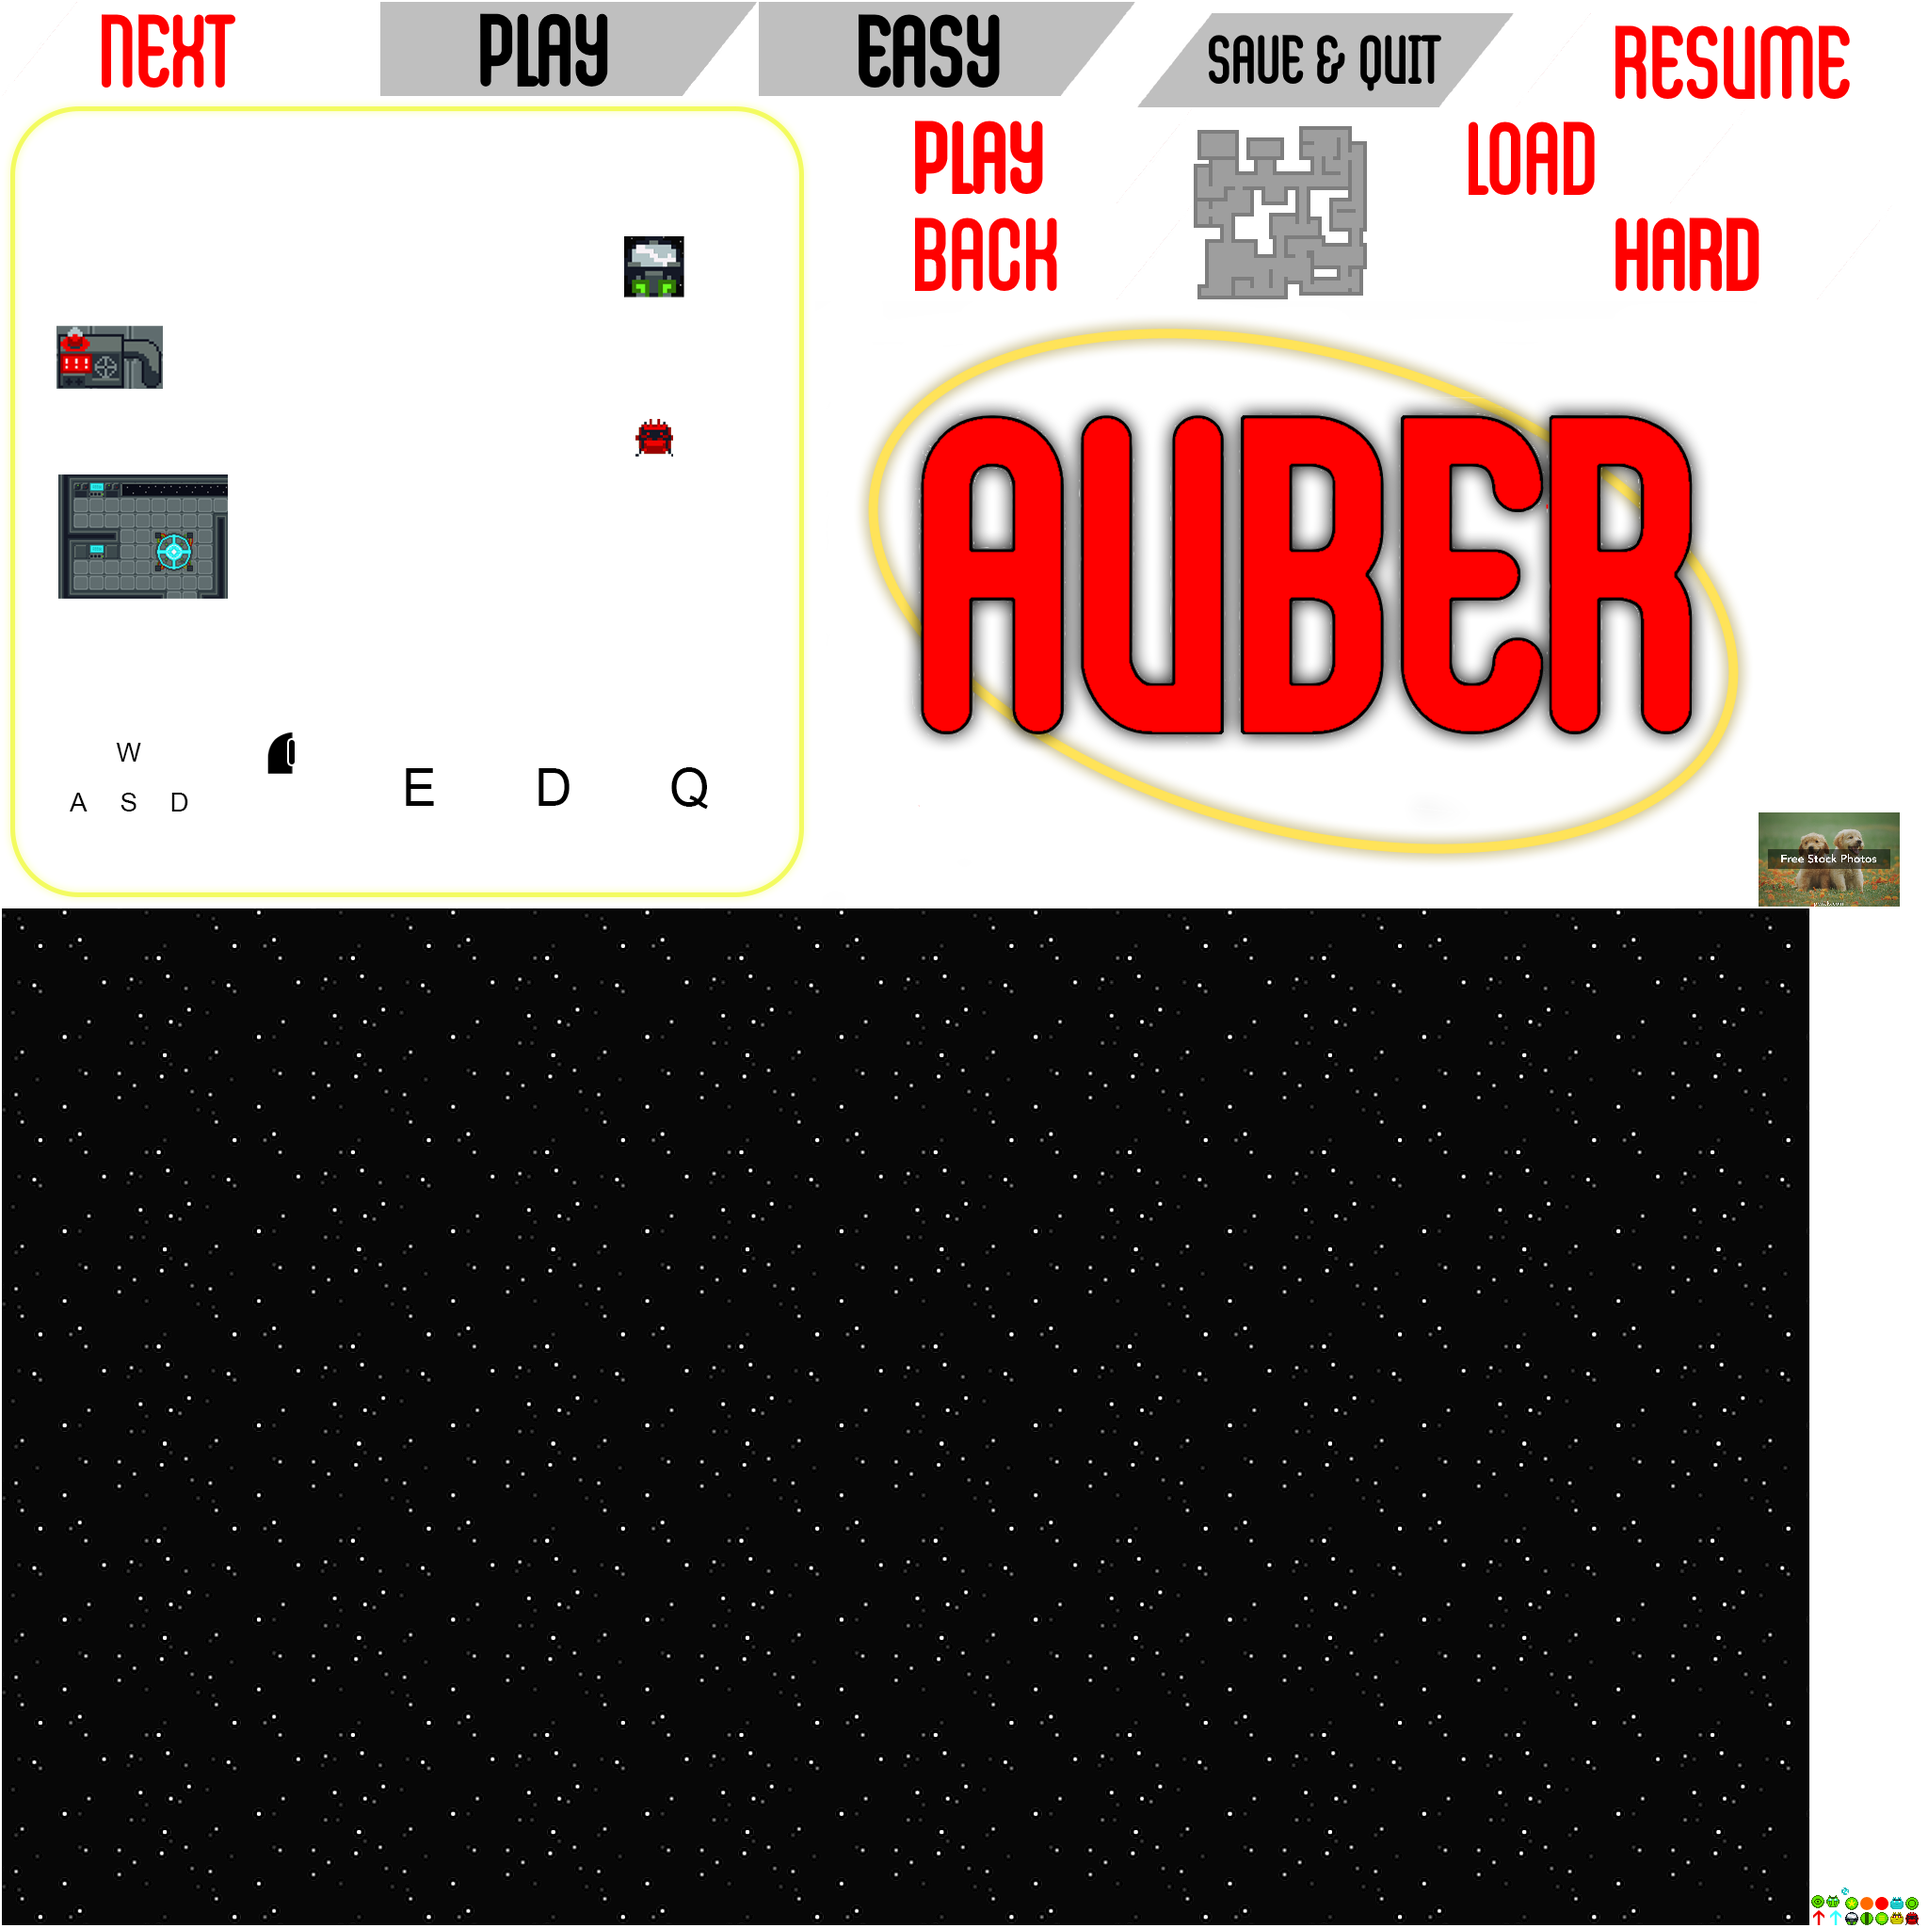
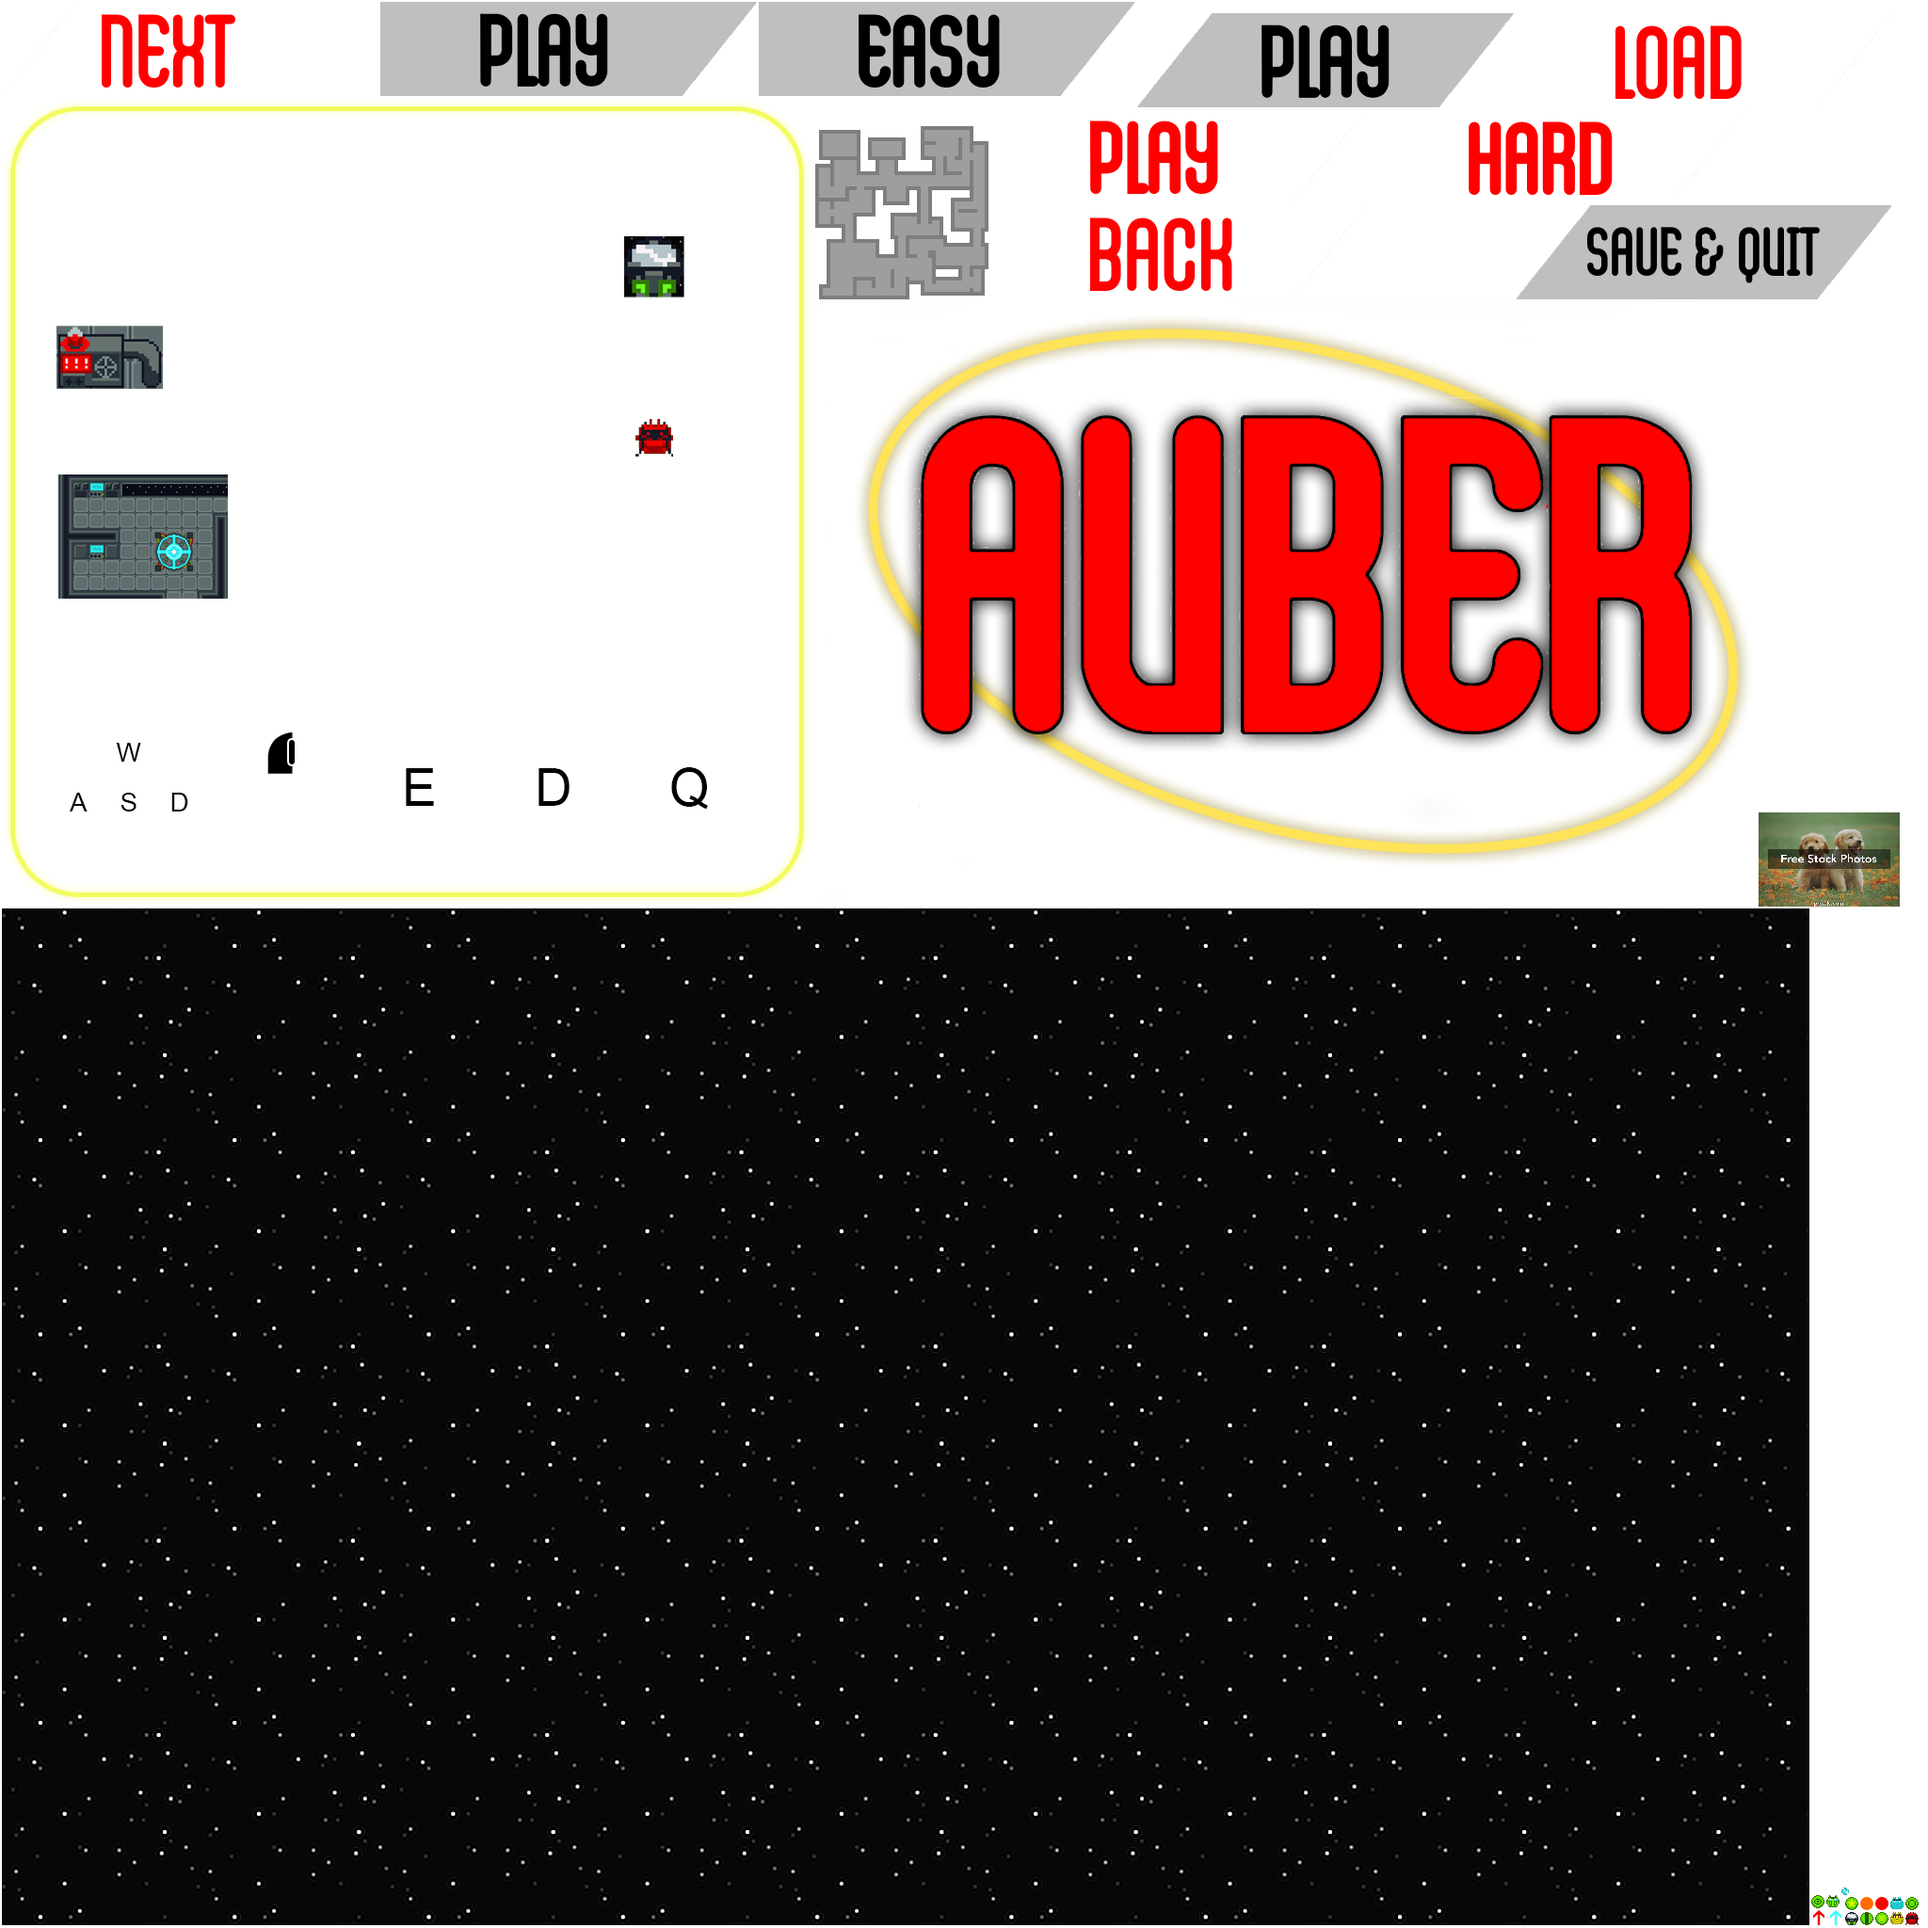
Added guides

Changed region(s): [[0.4062, 0.0, 0.75, 0.1562], [0.75, 0.0625, 1.0, 0.1562], [0.8438, 0.0, 0.9688, 0.0625]]

diff --git a/core/src/com/threecubed/auber/ui/MenuUI.java b/core/src/com/threecubed/auber/ui/MenuUI.java
@@ -32,10 +32,17 @@ public class MenuUI {
   Button easyDiffButton;
   Button hardDiffButton;
   Button loadButton;
+  Button nextButton;
+  Button lastButton;
+  Button startButton;
   OrthogonalTiledMapRenderer renderer;
-  Sprite instructions;
+  Sprite instructions_first;
+  Sprite instructions_second;
   Sprite title;
   SpriteBatch spriteBatch;
+
+  // Main menu screen counter (main, guide 1, guide 2)
+  int subScreen = 0;
 
   /**
    * Instantiate the screen with the {@link AuberGame} object. Set the title and button up to be
@@ -48,10 +55,17 @@ public class MenuUI {
 
     spriteBatch = new SpriteBatch();
 
-    instructions = game.atlas.createSprite("instructions");
+    instructions_first = game.atlas.createSprite("guide1");
+    instructions_first.setScale(1f);
+    instructions_first.setPosition(Gdx.graphics.getWidth() / 2 - instructions_first.getWidth() / 2,
+            Gdx.graphics.getHeight() / 2 - instructions_first.getHeight() / 2 + 50f);
+    instructions_second = game.atlas.createSprite("guide2");
+    instructions_second.setScale(1f);
+    instructions_second.setPosition(Gdx.graphics.getWidth() / 2 - instructions_second.getWidth() / 2,
+            Gdx.graphics.getHeight() / 2 - instructions_second.getHeight() / 2 + 50f);
     title = game.atlas.createSprite("auber_logo");
 
-    Runnable onPlayClick = new Runnable() {
+    Runnable onStartClick = new Runnable() {
       @Override
       public void run() {
         game.setScreen(new GameScreen(game, MenuScreen.difficulty));
@@ -59,9 +73,9 @@ public class MenuUI {
     };
 
     // Button sprites are now drawn from the bottom left rather than center
-    playButton = new Button(
-        new Vector2(0f, Gdx.graphics.getHeight() / 4),
-        1f, game.atlas.createSprite("playButton"), game.atlas.createSprite("playButtonPressed"), game, onPlayClick);
+    startButton = new Button(
+        new Vector2(Gdx.graphics.getWidth() / 2 - 200f, Gdx.graphics.getHeight() / 4 - 175f),
+        1f, game.atlas.createSprite("startButton"), game.atlas.createSprite("startButtonPressed"), game, onStartClick);
 
     Runnable onDiffClick = new Runnable() {
       @Override
@@ -90,25 +104,74 @@ public class MenuUI {
     loadButton = new Button(
             new Vector2(0f, Gdx.graphics.getHeight() / 4 - 125f),
             1f, game.atlas.createSprite("loadButton"), game.atlas.createSprite("loadButtonPressed"), game, onLoadClick);
+
+    Runnable onNextClick = new Runnable() {
+      @Override
+      public void run() {
+        nextScreen();
+      }
+    };
+
+    nextButton = new Button(
+            new Vector2(Gdx.graphics.getWidth() - 400f, Gdx.graphics.getHeight() / 4 - 175f),
+            1f, game.atlas.createSprite("nextButton"), game.atlas.createSprite("nextButtonPressed"), game, onNextClick);
+
+    playButton = new Button(
+            new Vector2(0f, Gdx.graphics.getHeight() / 4),
+            1f, game.atlas.createSprite("playButton"), game.atlas.createSprite("playButtonPressed"), game, onNextClick);
+
+    Runnable onLastClick = new Runnable() {
+      @Override
+      public void run() {
+        lastScreen();
+      }
+    };
+
+    lastButton = new Button(
+            new Vector2(0f, Gdx.graphics.getHeight() / 4 - 175f),
+            1f, game.atlas.createSprite("backButton"), game.atlas.createSprite("backButtonPressed"), game, onLastClick);
   }
 
   public void render(World world, SpriteBatch spriteBatch) {
 
     spriteBatch.begin();
 
-    title.setScale(0.5f);
-    title.setPosition(-200f, 600f);
-    title.draw(spriteBatch);
+    if (subScreen == 0) {
 
-    playButton.render(spriteBatch);
-    loadButton.render(spriteBatch);
-    if (MenuScreen.difficulty == Difficulties.Easy) {
-      easyDiffButton.render(spriteBatch);
+      title.setScale(0.5f);
+      title.setPosition(-200f, 600f);
+      title.draw(spriteBatch);
+
+      playButton.render(spriteBatch);
+      loadButton.render(spriteBatch);
+      if (MenuScreen.difficulty == Difficulties.Easy) {
+        easyDiffButton.render(spriteBatch);
+      } else {
+        hardDiffButton.render(spriteBatch);
+      }
+
+    }
+    else if (subScreen == 1) {
+      // draw guide 1
+      instructions_first.draw(spriteBatch);
+      nextButton.render(spriteBatch);
+      lastButton.render(spriteBatch);
     }
     else {
-      hardDiffButton.render(spriteBatch);
+      // draw guide 2
+      instructions_second.draw(spriteBatch);
+      lastButton.render(spriteBatch);
+      startButton.render(spriteBatch);
     }
 
     spriteBatch.end();
+  }
+
+  public void nextScreen() {
+    this.subScreen++;
+  }
+
+  public void lastScreen() {
+    this.subScreen--;
   }
 }
